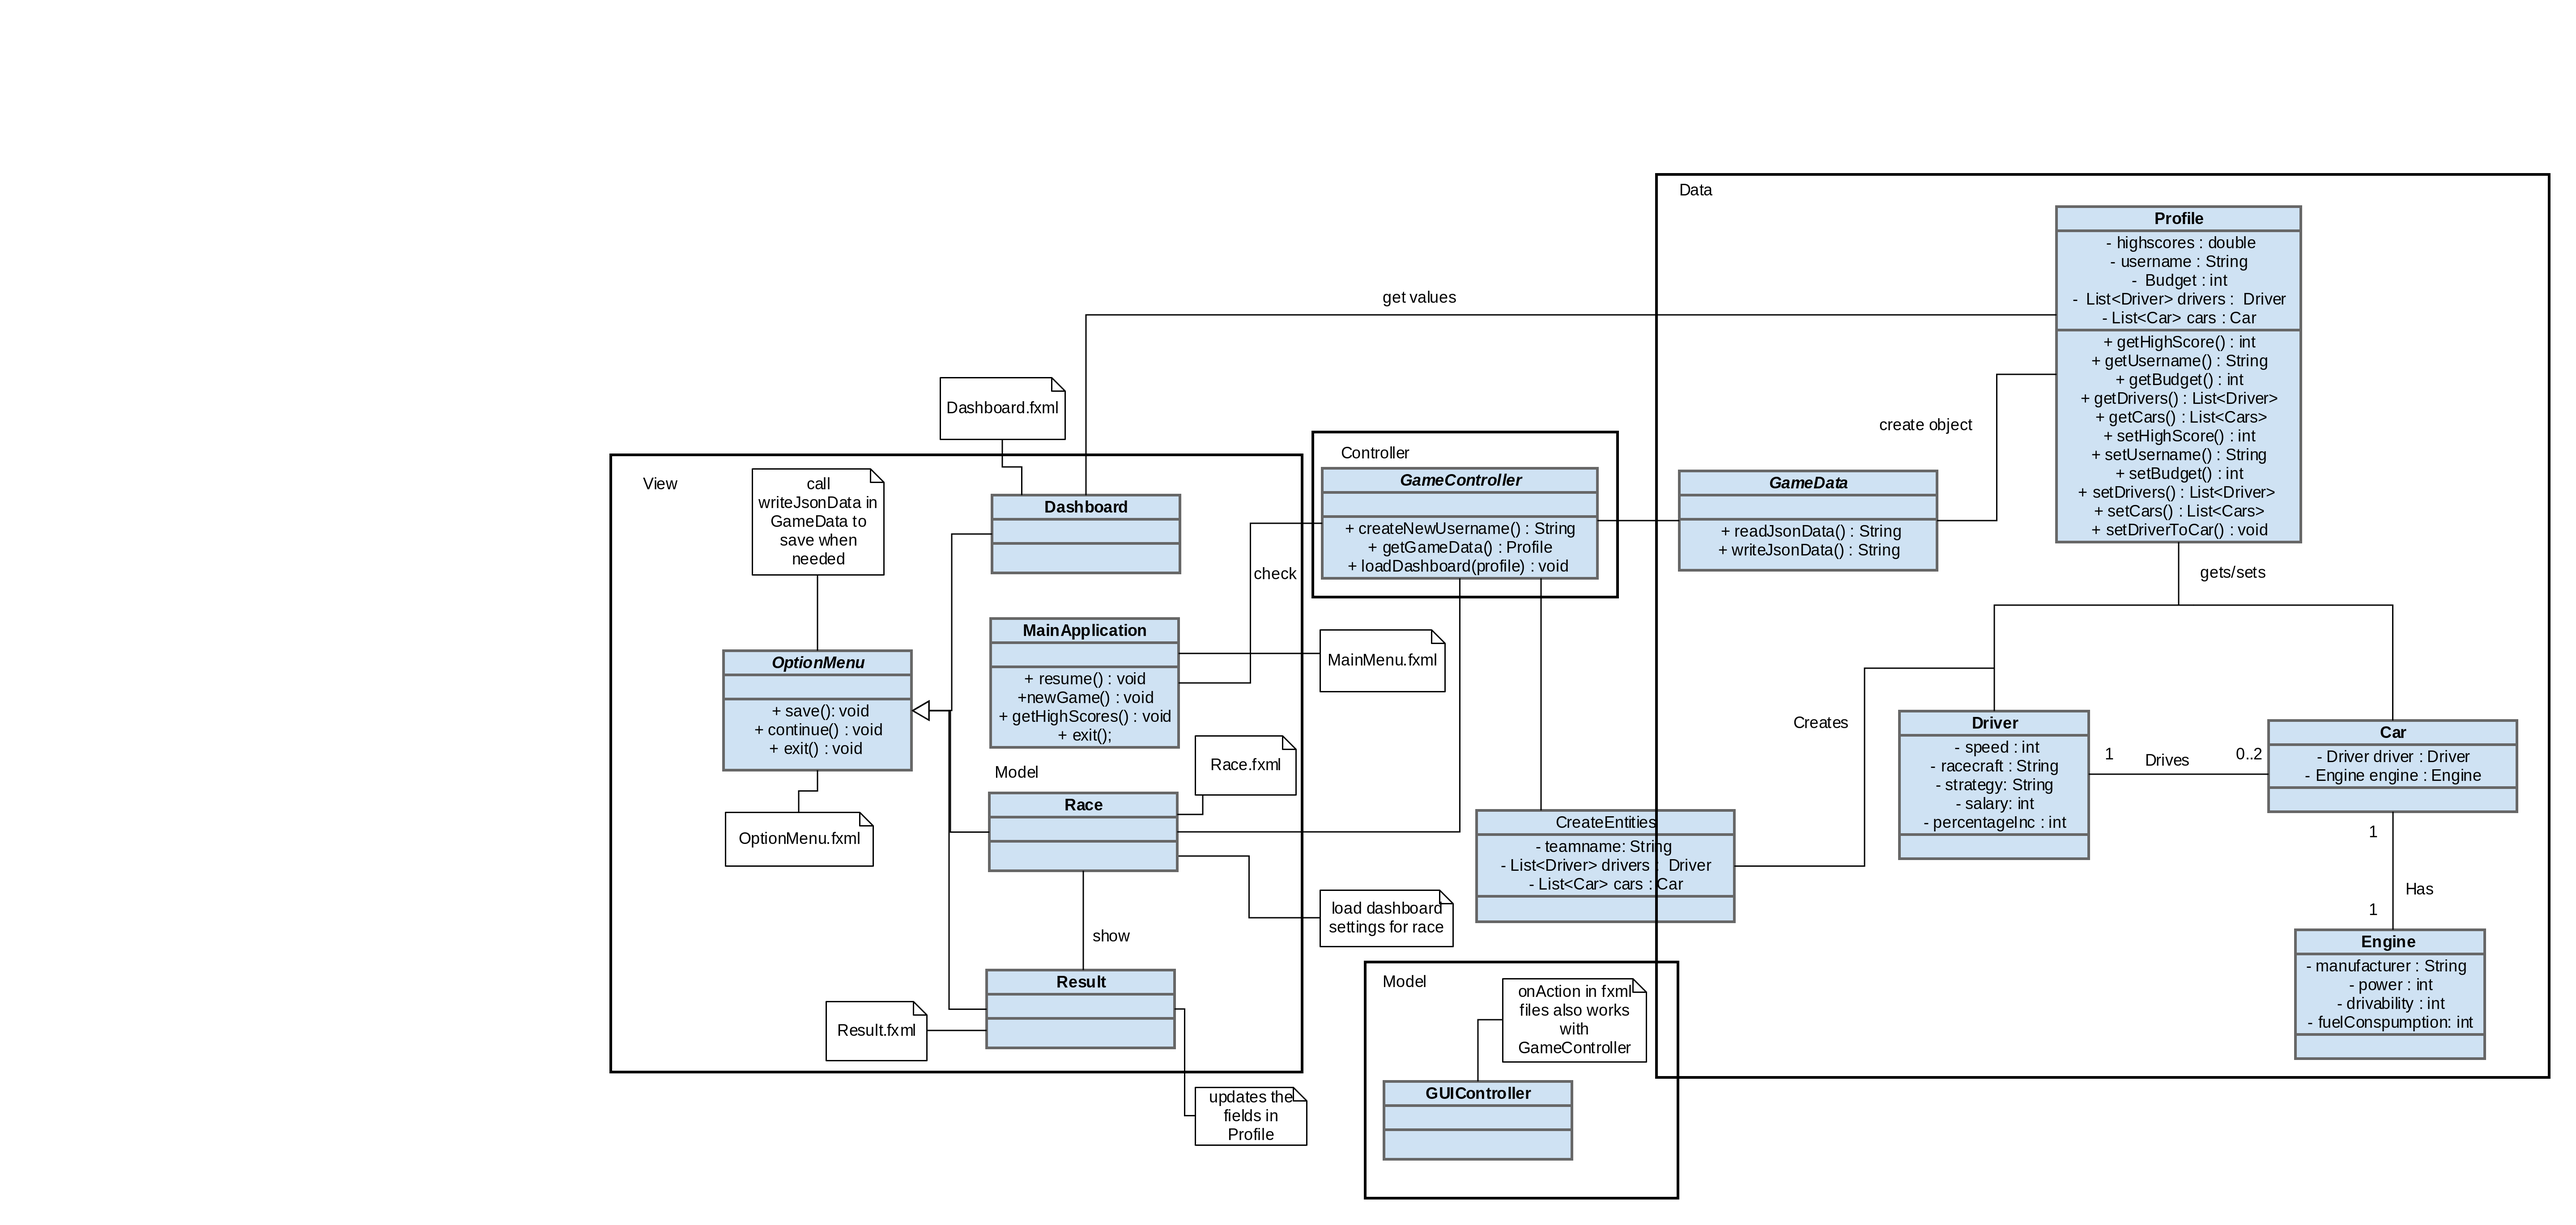
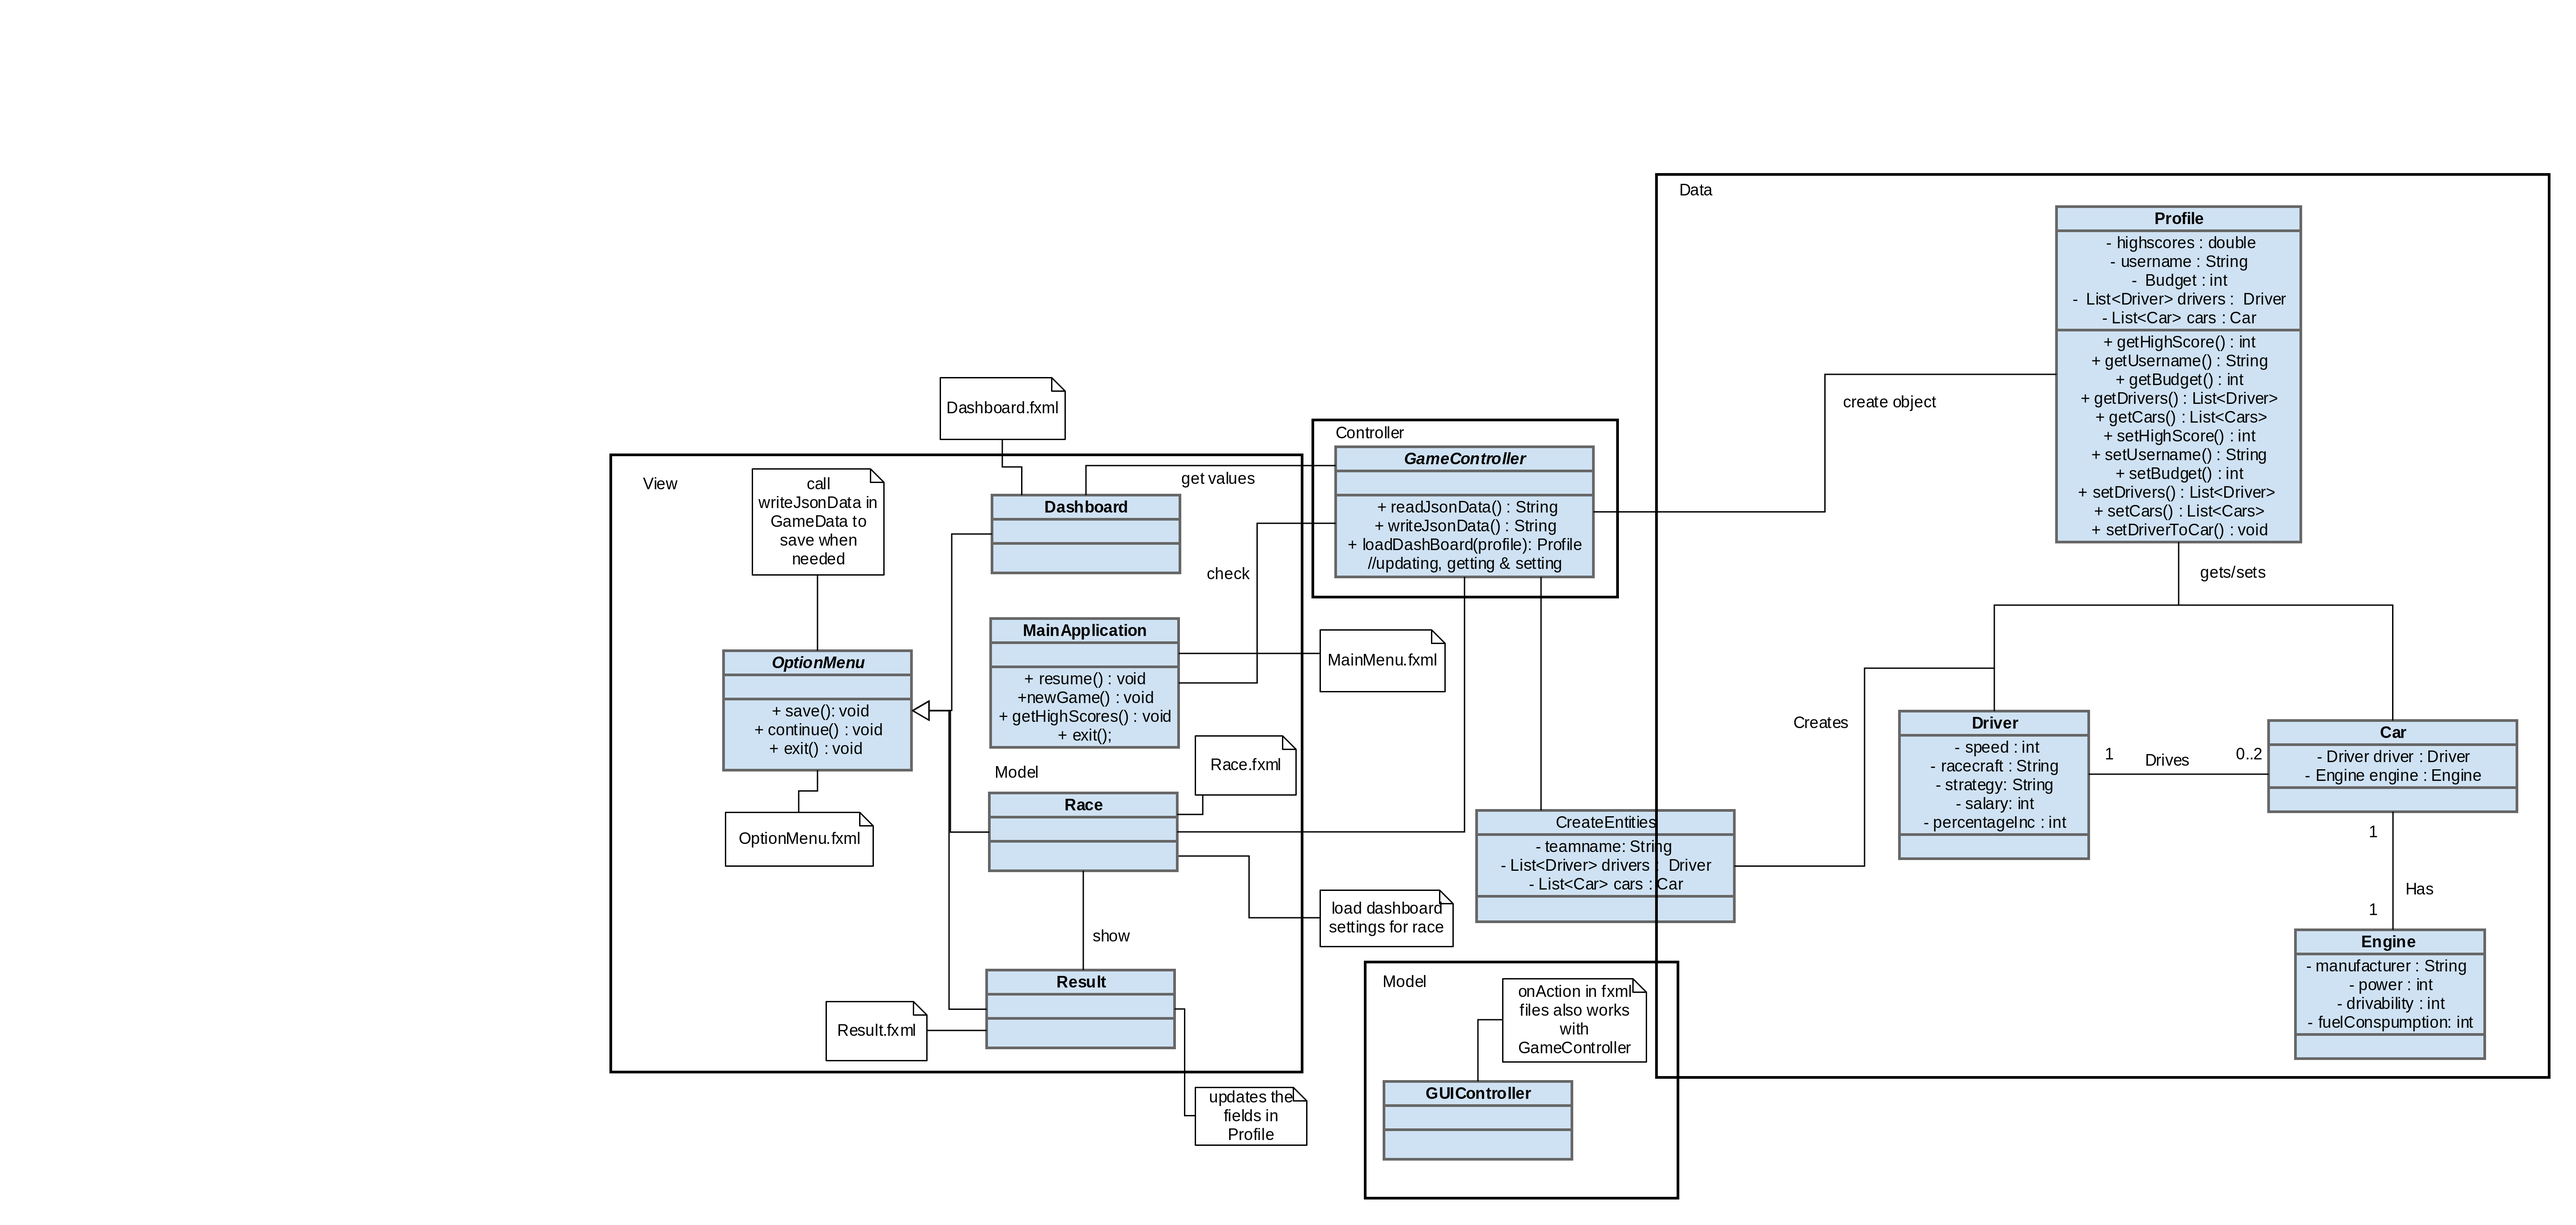
Some additions: new classes (with calculations) and uml updated again.

Changed region(s): [[0.4664, 0.3414, 0.7773, 0.4965], [0.7151, 0.3103, 0.7462, 0.3414], [0.4664, 0.4655, 0.4975, 0.4965]]

diff --git a/Formula_1/src/manager/model/GameController.java b/Formula_1/src/manager/model/GameController.java
@@ -15,23 +15,26 @@ import org.json.simple.parser.JSONParser;
  * version 0.4
  */
  
-public class GameData {
+public class GameController {
 
 	public static void main(String[] args) throws IOException {
-		writeJsonObjectToFile();
+		//writeJsonObjectToFile();
 		readJsonObjectAndInitialize();
 	}
 	
+	
+	//from what it reads it will make an object out of it.
     @SuppressWarnings("unchecked")
     public static Profile readJsonObjectAndInitialize(){
         JSONParser parser = new JSONParser();
  
         try {
  
+        	//###########################Parse##########################
             Object obj = parser.parse(new FileReader("./data.dat"));
- 
             JSONObject jsonObject = (JSONObject) obj;
  
+            //###########################Objects########################
             //getting the teamname
             String teamname = (String) jsonObject.get("Teamname");
             
@@ -40,12 +43,20 @@ public class GameData {
             
             //getting highscore
             String highscore = (String) jsonObject.get("Highscore");
-                        
+            
+          //###########################Arrays###########################
+            //loop will be implemented
             //getting car1
-            JSONArray car1 = (JSONArray) jsonObject.get("Car1");
+            JSONArray car1Array = (JSONArray) jsonObject.get("Car1");
+            JSONObject brandObject = (JSONObject) car1Array.get(0);
+            String brandValueOfCar1 = (String)brandObject.get("Brand");
+            System.out.println("Brand: " + brandValueOfCar1);
             
             //getting car2
-            JSONArray car2 = (JSONArray) jsonObject.get("Car2");
+            JSONArray car2Array = (JSONArray) jsonObject.get("Car2");
+            brandObject = (JSONObject) car2Array.get(0);
+            String brandValueOfCar2 = (String) brandObject.get("Brand");
+            System.out.println("Brand: " + brandValueOfCar2);
             
             //drivers. Will use a for loop the next time to optimize this
             //next update
@@ -62,17 +73,16 @@ public class GameData {
             JSONArray driver11 = (JSONArray) jsonObject.get("Driver11");
  
             System.out.println("Teamname: " + teamname);
-            System.out.println("Car1: " + car1);
             System.out.println("Budget: " + budget);
             System.out.println("Highscore: " + highscore);
             
-            Iterator<String> iteratordriver = driver1.iterator();
+            //Iterator<String> iteratordriver = driver1.iterator();
             
             //just printing out a specific driver to test to see if it is working
-            while (iteratordriver.hasNext()) {
+            /*while (iteratordriver.hasNext()) {
                 
             	System.out.println(iteratordriver.next());
-            }
+            }*/
             
         } catch (Exception e) {
             e.printStackTrace();
@@ -80,7 +90,7 @@ public class GameData {
         
         Profile profile;
         
-        //returns back an object of your user profile
+        //returns back an object of your user profile that was loaded from the json object
 		return null;
     }
     
@@ -92,32 +102,43 @@ public class GameData {
     	//for example: 
     	//int budget = profile.getBudget();
     	
+    	//###########################User Profile#########################
     	JSONObject obj = new JSONObject();
 		obj.put("Teamname", "");
 		obj.put("Budget", "2000000");
 		obj.put("Highscore", "");
-
-		//optimization needed
+				
+		//###########################Car 1################################
+		//car parts.. will adjust it to become:
+		//parts.put("Brand", profile.getBrand()); etc
+		JSONObject partsOfCar1 = new JSONObject();
+		partsOfCar1 .put("Brand", "Ferrari");
+		partsOfCar1 .put("Engine", "Toyota");
+		
 		JSONArray car1 = new JSONArray();
-		car1.add("Brand");
-		car1.add("Engine");
+		car1.add(partsOfCar1 );
 		obj.put("Car1", car1);
 		
+		//###########################Car 2################################
+		JSONObject partsOfCar2 = new JSONObject();
+		partsOfCar2 .put("Brand", "Ferrari");
+		partsOfCar2 .put("Engine", "mercedes");
+		
 		JSONArray car2 = new JSONArray();
-		car2.add("Brand");
-		car2.add("Engine");
+		car2.add(partsOfCar2);
 		obj.put("Car2", car2);
 		
-		//need to be optimized if we have 11 drivers!
-		JSONArray driver1 = new JSONArray();
-		driver1.add("Victor Wernet");
-		driver1.add("1");
-		driver1.add("2");
-		driver1.add("3");
-		driver1.add("4");
-		driver1.add("5");
-		driver1.add("6");
-		obj.put("Driver1", driver1);
+		//###########################Drivers##############################
+		JSONArray driver = new JSONArray();
+		driver.add("Victor Wernet");
+		driver.add("1");
+		driver.add("2");
+		driver.add("3");
+		driver.add("4");
+		driver.add("5");
+		driver.add("6");
+		//put it to the obj
+		obj.put("Drivers", driver);
 		
 		// try-with-resources statement based on post comment below :)
 		try (FileWriter file = new FileWriter("./data.dat")) {
@@ -126,5 +147,5 @@ public class GameData {
 			System.out.println("\nJSON Object: " + obj+"\n");
 		}
     	
-    }
+    }  
 }

diff --git a/Formula_1/src/manager/model/WeightReduction.java b/Formula_1/src/manager/model/WeightReduction.java
@@ -1,6 +1,6 @@
 package manager.model;
 
-public class Engine 
+public class WeightReduction 
 {
 	//when called with a parameter it will send back a price
 	public static double priceAtCertainLevel(double level)
@@ -8,10 +8,10 @@ public class Engine
 		//standard level = 0
 		if(level==1)
 		{
-			return 10.0;
+			return 20.0;
 		}
-				
-		//if level > 1, then the total amount you'll have to pay would 
-		return (level-0.5)*10.0; 
+					
+		//if level > 1, then the total amount you'll have to pay would be
+		return (level-0.5)*20.0; 
 	}
 }

diff --git a/Formula_1/src/manager/model/DownForce.java b/Formula_1/src/manager/model/DownForce.java
@@ -1,6 +1,6 @@
 package manager.model;
 
-public class Engine 
+public class DownForce 
 {
 	//when called with a parameter it will send back a price
 	public static double priceAtCertainLevel(double level)
@@ -8,10 +8,10 @@ public class Engine
 		//standard level = 0
 		if(level==1)
 		{
-			return 10.0;
+			return 6.0;
 		}
-				
-		//if level > 1, then the total amount you'll have to pay would 
-		return (level-0.5)*10.0; 
+		
+		//if level > 1, then the total amount you'll have to pay would be
+		return (level-0.5)*6.0; 
 	}
 }

diff --git a/Formula_1/src/manager/model/Gearbox.java b/Formula_1/src/manager/model/Gearbox.java
@@ -1,6 +1,6 @@
 package manager.model;
 
-public class Engine 
+public class Gearbox 
 {
 	//when called with a parameter it will send back a price
 	public static double priceAtCertainLevel(double level)
@@ -8,10 +8,10 @@ public class Engine
 		//standard level = 0
 		if(level==1)
 		{
-			return 10.0;
+			return 8.0;
 		}
-				
-		//if level > 1, then the total amount you'll have to pay would 
-		return (level-0.5)*10.0; 
+			
+		//if level > 1, then the total amount you'll have to pay would be
+		return (level-0.5)*8.0; 
 	}
 }

diff --git a/Formula_1/src/manager/model/Suspension.java b/Formula_1/src/manager/model/Suspension.java
@@ -1,6 +1,6 @@
 package manager.model;
 
-public class Engine 
+public class Suspension 
 {
 	//when called with a parameter it will send back a price
 	public static double priceAtCertainLevel(double level)
@@ -8,10 +8,10 @@ public class Engine
 		//standard level = 0
 		if(level==1)
 		{
-			return 10.0;
+			return 4.0;
 		}
 				
-		//if level > 1, then the total amount you'll have to pay would 
-		return (level-0.5)*10.0; 
+		//if level > 1, then the total amount you'll have to pay would be
+		return (level-0.5)*4.0; 
 	}
 }

diff --git a/Formula_1/src/manager/model/Aerodynamics.java b/Formula_1/src/manager/model/Aerodynamics.java
@@ -1,17 +1,17 @@
 package manager.model;
 
-public class Engine 
-{
+public class Aerodynamics 
+{		
 	//when called with a parameter it will send back a price
 	public static double priceAtCertainLevel(double level)
 	{
 		//standard level = 0
 		if(level==1)
 		{
-			return 10.0;
+			return 5.0;
 		}
-				
-		//if level > 1, then the total amount you'll have to pay would 
-		return (level-0.5)*10.0; 
+			
+		//if level > 1, then the total amount you'll have to pay would be
+		return (level-0.5)*5.0; 
 	}
 }

diff --git a/Formula_1/src/manager/model/Profile.java b/Formula_1/src/manager/model/Profile.java
@@ -1,8 +1,6 @@
 package manager.model;
-/**
- * 
- * 
- */
-public class Profile {
+
+public class Profile 
+{
 
 }
